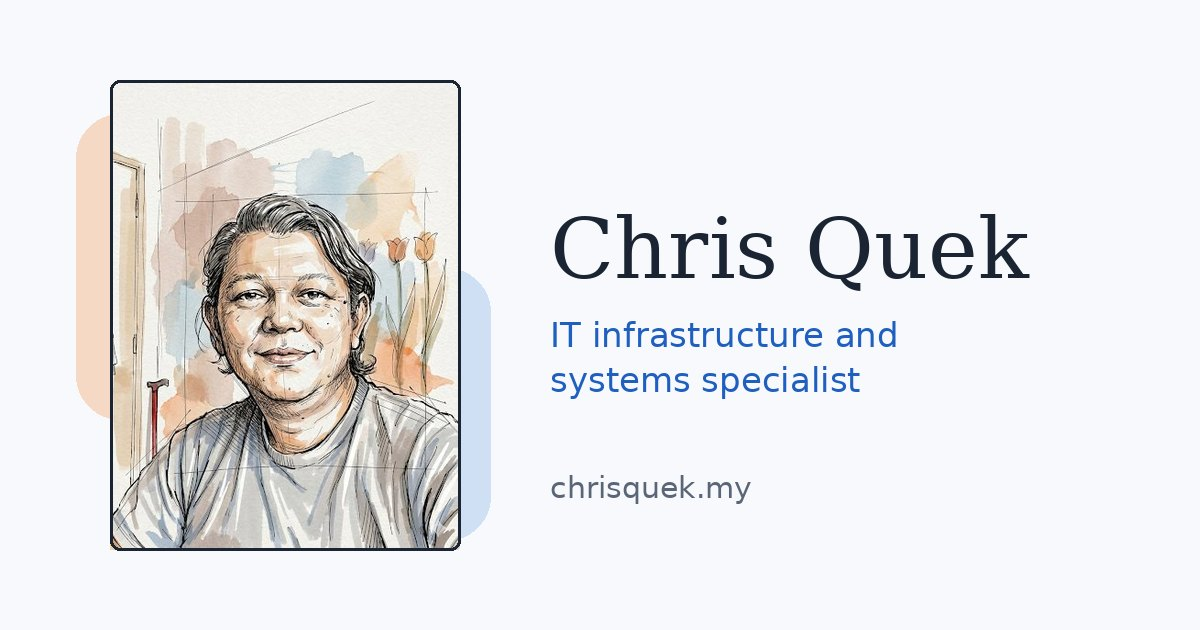
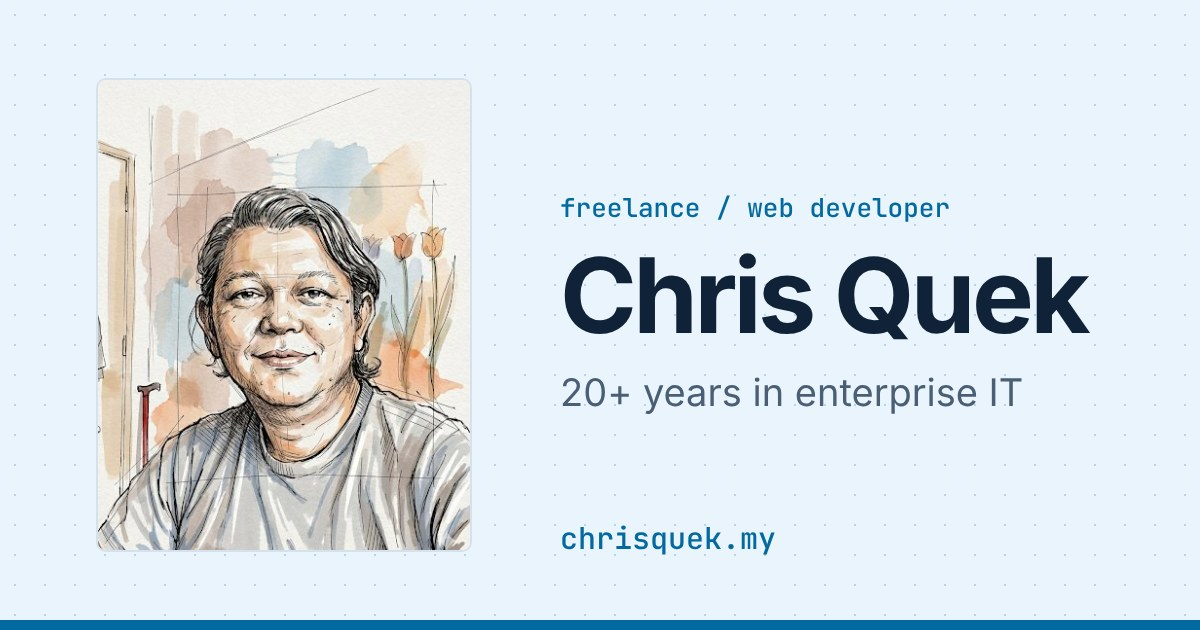
Slice 3: metadata, share image and README
Title, description, Open Graph and Twitter tags and JSON-LD now say
"Freelance web developer". New 1200x630 share image in the Modern Tech
look, sitemap date refreshed, README rewritten for the new design.

Claude-Session: https://claude.ai/code/session_01FiBuiMKGcvPtDMn41AWDZd

diff --git a/index.html b/index.html
@@ -5,27 +5,30 @@
   <meta name="viewport" content="width=device-width, initial-scale=1">
   <meta name="color-scheme" content="light dark">
   <meta name="theme-color" content="#FFFFFF">
-  <title>Chris Quek | IT infrastructure and systems specialist</title>
-  <meta name="description" content="Chris Quek is an IT infrastructure and systems specialist with more than 20 years across Malaysia and Singapore, now building free web tools. Open to project work and long-term roles.">
+  <title>Chris Quek | Freelance web developer</title>
+  <meta name="description" content="Chris Quek is a freelance web developer with 20+ years in enterprise IT. He builds practical web tools, dashboards and automation, plus free community tools.">
   <link rel="canonical" href="https://chrisquek.my/">
   <link rel="icon" href="favicon.svg" type="image/svg+xml">
   <link rel="preload" href="inter-latin-wght-normal.woff2" as="font" type="font/woff2" crossorigin>
   <meta property="og:type" content="website">
   <meta property="og:site_name" content="Chris Quek">
-  <meta property="og:title" content="Chris Quek | IT infrastructure and systems specialist">
-  <meta property="og:description" content="More than 20 years keeping enterprise systems monitored and running, now building free web tools for Malaysian businesses.">
+  <meta property="og:title" content="Chris Quek | Freelance web developer">
+  <meta property="og:description" content="Freelance web developer with 20+ years in enterprise IT. Practical web tools, dashboards and automation for businesses, plus free tools for everyone.">
   <meta property="og:url" content="https://chrisquek.my/">
   <meta property="og:image" content="https://chrisquek.my/og-image.jpg">
   <meta property="og:image:width" content="1200">
   <meta property="og:image:height" content="630">
-  <meta property="og:image:alt" content="Illustrated portrait of Chris Quek beside his name and role">
+  <meta property="og:image:alt" content="Illustrated portrait of Chris Quek beside his name and role: freelance web developer">
   <meta name="twitter:card" content="summary_large_image">
+  <meta name="twitter:title" content="Chris Quek | Freelance web developer">
+  <meta name="twitter:description" content="Freelance web developer with 20+ years in enterprise IT. Practical web tools, dashboards and automation for businesses, plus free tools for everyone.">
+  <meta name="twitter:image" content="https://chrisquek.my/og-image.jpg">
   <script type="application/ld+json">
   {
     "@context": "https://schema.org",
     "@type": "Person",
     "name": "Chris Quek",
-    "jobTitle": "IT infrastructure and systems specialist",
+    "jobTitle": "Freelance web developer",
     "url": "https://chrisquek.my/",
     "image": "https://chrisquek.my/chris-quek.jpg",
     "sameAs": [
@@ -54,7 +57,6 @@
   </div>
 
   <header class="hero">
-    <!-- Slice 2 replaces this portrait with the new ink and watercolour illustration. -->
     <img class="hero-img" src="chris-quek.jpg" width="382" height="512" alt="Illustrated portrait of Chris Quek" fetchpriority="high">
     <div class="hero-text">
       <p class="eyebrow">freelance / web developer</p>

diff --git a/styles.css b/styles.css
@@ -105,7 +105,7 @@ ul { list-style: none; margin: 0; padding: 0; }
   stroke-linejoin: round;
 }
 
-/* Banner: a faint dot grid on a sky tint. The portrait is a placeholder until the new illustration is added. */
+/* Banner: a faint dot grid on a sky tint, with the portrait beside the name. */
 .hero {
   display: flex;
   flex-wrap: wrap;

diff --git a/README.md b/README.md
@@ -1,6 +1,6 @@
 # chrisquek.my-main
 
-The main hub page for **chrisquek.my**: a one-page personal portfolio with a short introduction, contact details, icon links (CV, LinkedIn, GitHub, Blog, Contact), and a "My projects" section linking to the sites I build.
+The main hub page for **chrisquek.my**: a one-page personal site with a short introduction, a "Get to know me" row of links (LinkedIn, Blog, GitHub, Contact) and a "My Projects" section showing what I build and what each project is built and hosted with.
 
 Live at https://chrisquek.my
 
@@ -9,15 +9,23 @@ Live at https://chrisquek.my
 | File | Purpose |
 |------|---------|
 | `index.html` | The page |
-| `styles.css` | Styles, light and dark themes |
+| `styles.css` | Styles, with light and dark colour tokens at the top |
 | `script.js` | Theme toggle and contact form |
 | `404.html` | Not-found page |
 | `robots.txt`, `sitemap.xml` | Search engine files |
-| `chris-quek.jpg` | Portrait |
-| `og-image.jpg` | Preview image for shared links |
+| `chris-quek.jpg` | Illustrated portrait |
+| `og-image.jpg` | 1200 x 630 preview image for shared links |
 | `favicon.svg` | Browser tab icon |
+| `inter-latin-wght-normal.woff2`, `jetbrains-mono-latin-wght-normal.woff2` | Self-hosted fonts |
+| `LICENSE-inter.txt`, `LICENSE-jetbrains-mono.txt`, `LICENSE-bootstrap-icons.txt` | Licences for the fonts and icons |
 
 Plain HTML, CSS and JavaScript. No build step, no framework, nothing loaded from other sites except the contact form request.
+
+## Design
+
+- Theme: "Modern Tech". A dot-grid banner, thin borders, Inter for text and JetBrains Mono for labels. Light and dark modes; the choice is remembered in the browser.
+- Icons: Bootstrap Icons (MIT) for the four links, Feather (MIT) for the rest. All are drawn inline in `index.html`.
+- Fonts: Inter and JetBrains Mono (SIL Open Font Licence 1.1), served from this repo.
 
 ## Branches and release workflow
 
@@ -36,9 +44,11 @@ There is no local preview. Commit to `staging`, wait for Cloudflare Pages to dep
 ## Common edits
 
 - **Intro text:** edit the paragraph with class `intro` in `index.html`.
-- **Make an icon live:** in `index.html`, change the `div` for CV or Blog into an `a` link with the site address, copying the pattern used for GitHub, and remove its "Soon" tag.
-- **Add a project:** in the "My projects" section of `index.html`, copy the MyBizTools `<li>` block, then change the link, icon and label. Alternate the tile colour: `tile` (peach), then `tile alt` (blue). Icons wrap three per row and stay centred.
+- **Make the Blog link live:** in the "Get to know me" list, replace the `div` with class `link soon` by an `a` with class `link`, copying the pattern used for GitHub, and remove the "soon" tag.
+- **Bring back the CV link:** the CV link is kept as an HTML comment inside the same list. Move it out of the comment.
+- **Add a project:** in the "My Projects" section, copy a `<li class="card">` block, then change the link, icon, name, status tag, description and the `built_with` and `runs_on` chips. Put the most important project first.
 - **Colours:** edit the variables at the top of `styles.css`.
+- **Share image:** replace `og-image.jpg` with a new 1200 x 630 image.
 
 ## Hosting and services
 
@@ -54,9 +64,10 @@ Each site has its own repo, named `chrisquek.my-<subdomain>`, and its own Cloudf
 | Site | Address | Status |
 |------|---------|--------|
 | Hub (this repo) | chrisquek.my | Live |
-| MyBizTools | mybiztools.chrisquek.my | Live |
+| MyBizTools | mybiztools.chrisquek.my | Live, work in progress |
+| GuanoAirTer | guanoairter.chrisquek.my | Live, beta |
 | Blog | blog.chrisquek.my (planned) | Planned |
-| Resume | resume.chrisquek.my (planned) | Planned |
+| Resume | resume.chrisquek.my | Live, not linked from the hub |
 
 ## Notes
 
